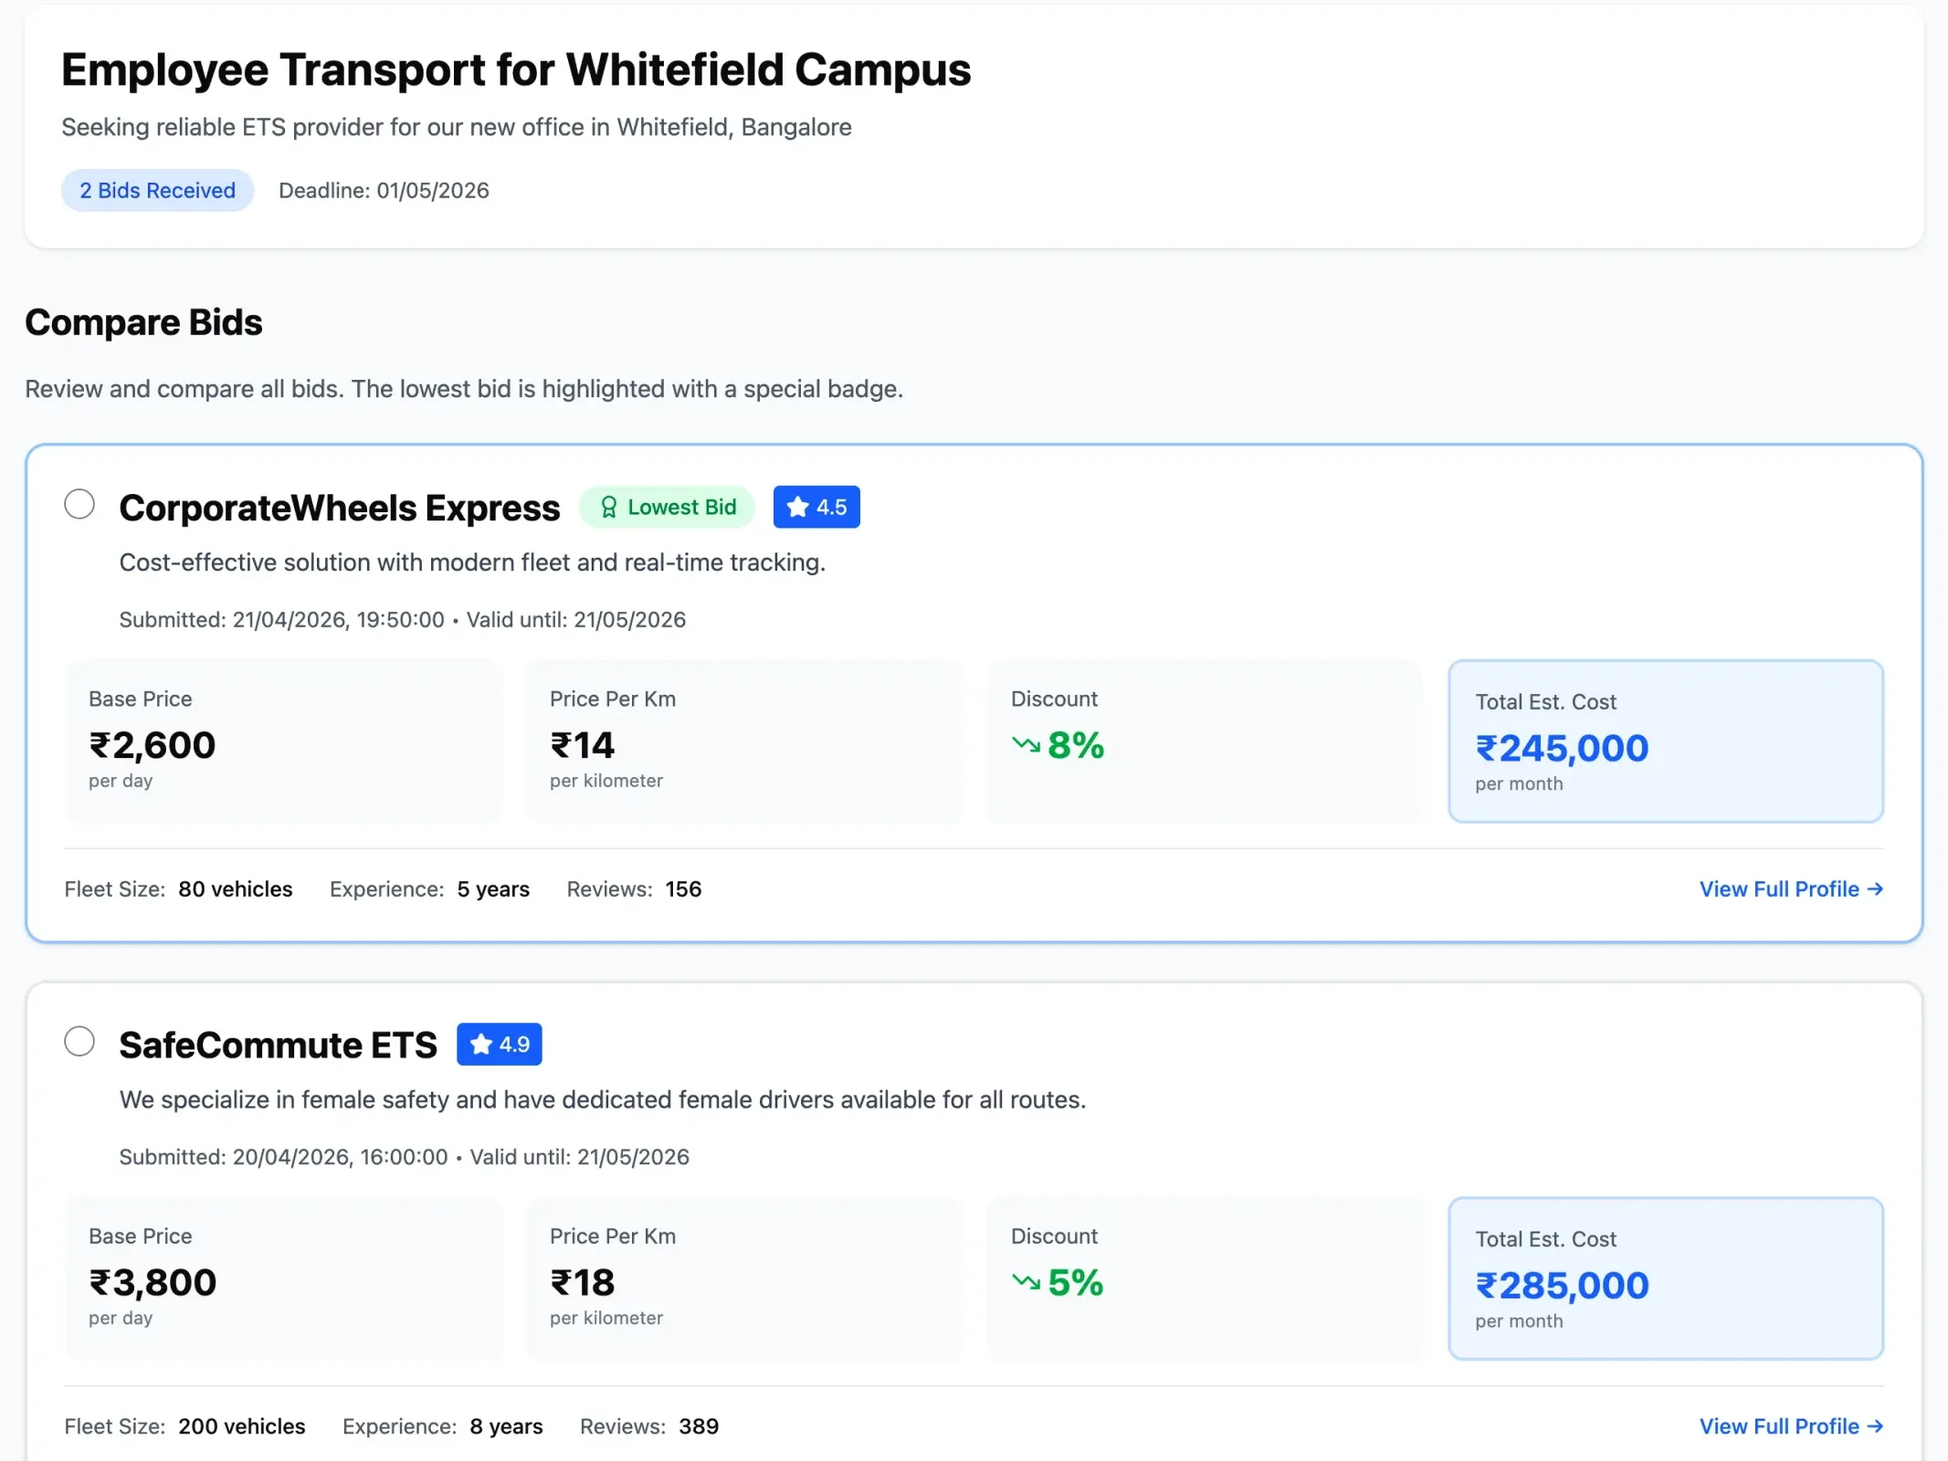
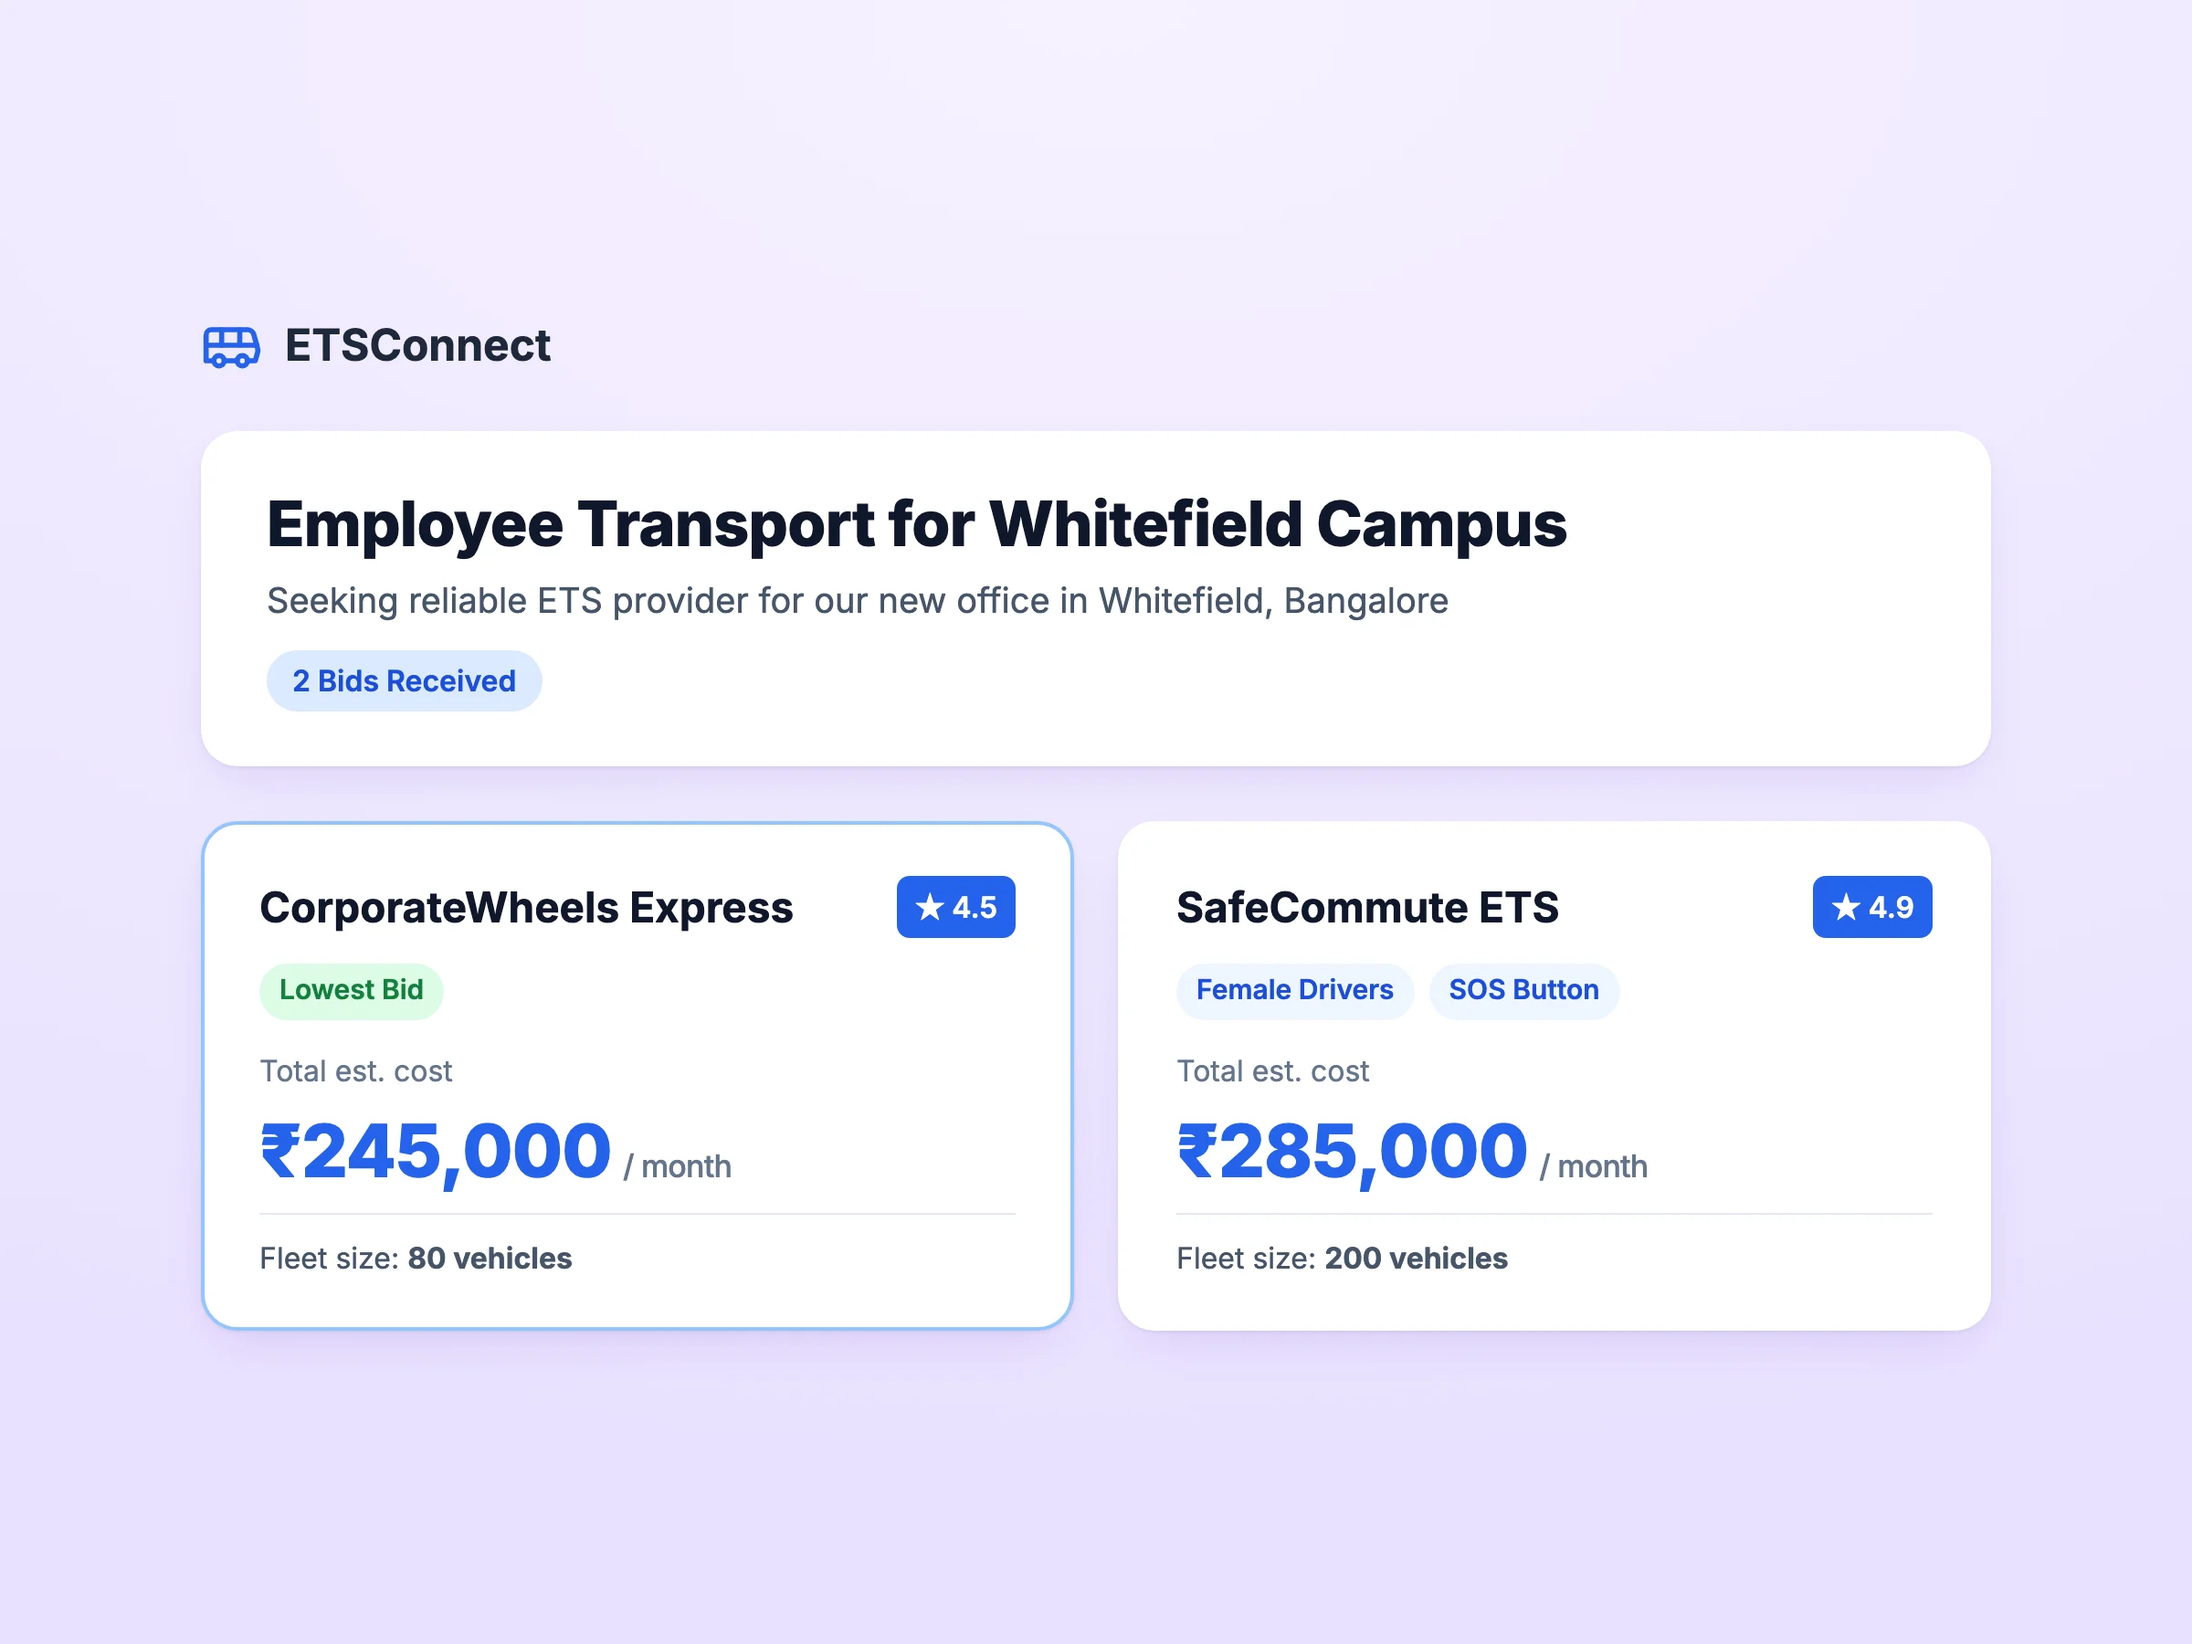
Give ETSConnect a composed thumbnail
The crop of the Compare Bids screen is replaced by the same moment
recomposed with room around it: the Whitefield request, and its two
bids side by side. That shows the trade-off the marketplace exists for,
the lowest bid against the provider with female drivers and an SOS
button. Every value is as it appears in the prototype. The source is
scripts/etsconnect-thumb.html.

diff --git a/scripts/etsconnect-thumb.html b/scripts/etsconnect-thumb.html
@@ -1,0 +1,65 @@
+<!doctype html>
+<html><head><meta charset="utf-8">
+<!-- Source for public/images/ETSConnect/ETSConnect-Thumbnail.webp.
+     The Compare Bids moment from the ETSConnect prototype, every value as it
+     appears there (Whitefield request, both bids), in the prototype's own
+     blue on the project's lavender.
+     Render: headless Chrome at 1200×900, device scale factor 2. -->
+<link href="https://fonts.googleapis.com/css2?family=Inter:wght@400;500;600;700;800&display=swap" rel="stylesheet">
+<style>
+  * { margin:0; padding:0; box-sizing:border-box; }
+  html, body { width:1200px; height:900px; }
+  body { font-family: Inter, sans-serif; color:#0f172a;
+         background: radial-gradient(110% 90% at 50% 0%, #f6f2ff 0%, #e9e1ff 100%);
+         display:flex; align-items:center; justify-content:center; }
+  .wrap { width: 980px; display:flex; flex-direction:column; gap: 30px; }
+  .brand { display:flex; align-items:center; gap:12px; font-weight:700; font-size:24px; color:#1e293b; }
+  .brand svg { width:34px; height:34px; }
+  .req { background:#fff; border-radius:20px; padding: 30px 36px; box-shadow: 0 1px 2px rgba(15,23,42,.06), 0 10px 30px -12px rgba(91,33,182,.18); }
+  .req h1 { font-size:34px; font-weight:800; letter-spacing:-.01em; }
+  .req p { margin-top:10px; font-size:19px; color:#475569; }
+  .pill { display:inline-block; margin-top:16px; background:#dbeafe; color:#1d4ed8; font-weight:600; font-size:16px; padding:7px 14px; border-radius:999px; }
+  .bids { display:grid; grid-template-columns: 1fr 1fr; gap: 24px; }
+  .bid { background:#fff; border-radius:20px; padding: 28px 30px; border:2px solid transparent;
+         box-shadow: 0 1px 2px rgba(15,23,42,.06), 0 10px 30px -12px rgba(91,33,182,.18); display:flex; flex-direction:column; gap:14px; }
+  .bid.low { border-color:#93c5fd; }
+  .top { display:flex; align-items:center; justify-content:space-between; gap:12px; }
+  .name { font-size:23px; font-weight:700; }
+  .star { background:#2563eb; color:#fff; font-weight:600; font-size:16px; padding:5px 10px; border-radius:7px; white-space:nowrap; }
+  .tags { display:flex; gap:8px; flex-wrap:wrap; min-height:31px; }
+  .tag { font-size:15px; font-weight:600; padding:5px 11px; border-radius:999px; background:#eff6ff; color:#1d4ed8; }
+  .tag.ok { background:#dcfce7; color:#15803d; }
+  .label { font-size:16px; color:#64748b; margin-top:4px; }
+  .price { font-size:40px; font-weight:800; color:#2563eb; letter-spacing:-.01em; line-height:1; }
+  .price small { font-size:17px; font-weight:500; color:#64748b; margin-left:6px; }
+  .fleet { font-size:16px; color:#475569; border-top:1px solid #e2e8f0; padding-top:14px; }
+</style></head>
+<body>
+  <div class="wrap">
+    <div class="brand">
+      <svg viewBox="0 0 24 24" fill="none" stroke="#2563eb" stroke-width="2" stroke-linecap="round" stroke-linejoin="round"><path d="M8 6v6"/><path d="M15 6v6"/><path d="M2 12h19.6"/><path d="M18 18h3s.5-1.7.8-2.8c.1-.4.2-.8.2-1.2 0-.4-.1-.8-.2-1.2l-1.4-5C20.1 6.8 19.1 6 18 6H4a2 2 0 0 0-2 2v10h3"/><circle cx="7" cy="18" r="2"/><path d="M9 18h5"/><circle cx="16" cy="18" r="2"/></svg>
+      ETSConnect
+    </div>
+    <div class="req">
+      <h1>Employee Transport for Whitefield Campus</h1>
+      <p>Seeking reliable ETS provider for our new office in Whitefield, Bangalore</p>
+      <span class="pill">2 Bids Received</span>
+    </div>
+    <div class="bids">
+      <div class="bid low">
+        <div class="top"><span class="name">CorporateWheels Express</span><span class="star">★ 4.5</span></div>
+        <div class="tags"><span class="tag ok">Lowest Bid</span></div>
+        <div class="label">Total est. cost</div>
+        <div class="price">₹245,000<small>/ month</small></div>
+        <div class="fleet">Fleet size: <b>80 vehicles</b></div>
+      </div>
+      <div class="bid">
+        <div class="top"><span class="name">SafeCommute ETS</span><span class="star">★ 4.9</span></div>
+        <div class="tags"><span class="tag">Female Drivers</span><span class="tag">SOS Button</span></div>
+        <div class="label">Total est. cost</div>
+        <div class="price">₹285,000<small>/ month</small></div>
+        <div class="fleet">Fleet size: <b>200 vehicles</b></div>
+      </div>
+    </div>
+  </div>
+</body></html>
